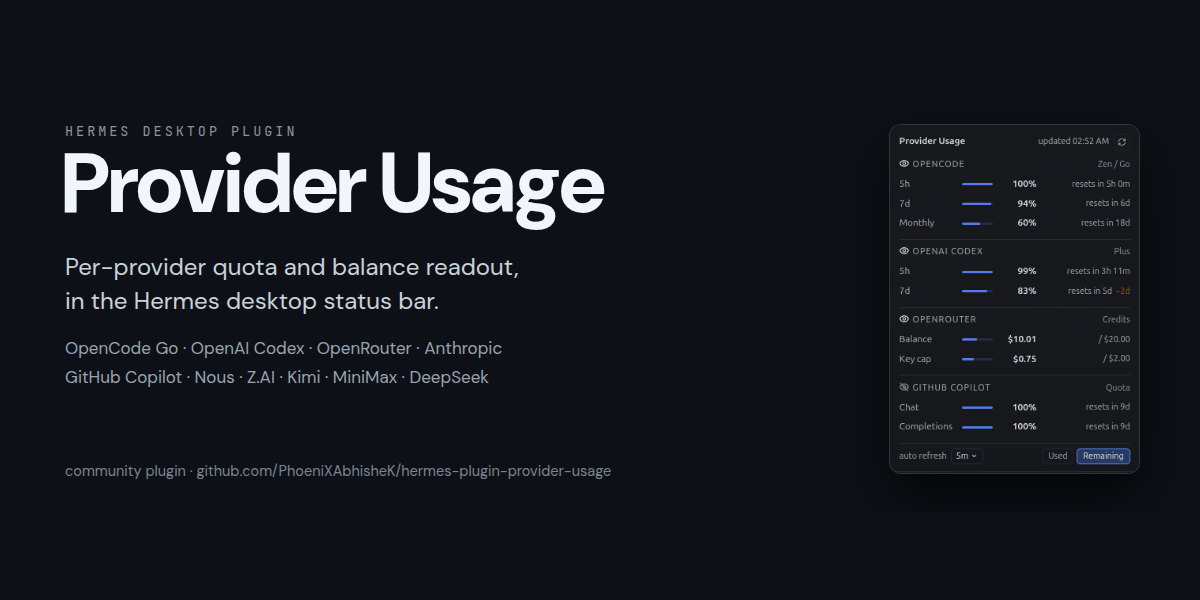
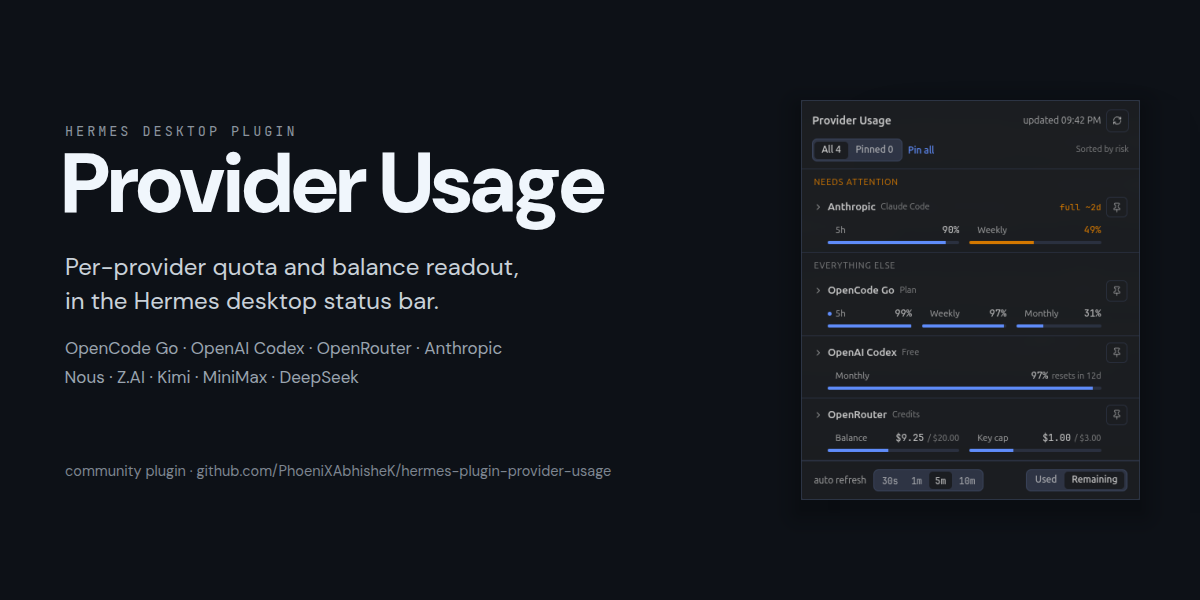
docs: version 0.4.1

diff --git a/dashboard/plugin_api.py b/dashboard/plugin_api.py
@@ -37,6 +37,7 @@ Endpoints hit (GET, machine credentials attached):
 - https://chatgpt.com/backend-api/wham/usage
 - https://openrouter.ai/api/v1/key and https://openrouter.ai/api/v1/credits
 - https://api.anthropic.com/api/oauth/usage (via Hermes, then DirectSDK, else the Claude Code token)
+- https://portal.nousresearch.com/api/oauth/account (via Hermes' Nous sign-in)
 - https://api.deepseek.com/user/balance
 - https://api.kimi.com/coding/v1/usages, https://api.moonshot.ai/v1/users/me/balance
   (then api.moonshot.cn)

diff --git a/README.md b/README.md
@@ -4,8 +4,7 @@
 
 Per-provider quota and balance readout in the Hermes desktop status bar:
 **OpenCode Go**, **OpenAI Codex**, **OpenRouter**, plus **Anthropic**,
-**GitHub Copilot**, **Nous**, **Z.AI**, **Kimi**, **MiniMax**, and
-**DeepSeek** when configured.
+**Nous**, **Z.AI**, **Kimi**, **MiniMax**, and **DeepSeek** when configured.
 
 Providers appear only when their credentials are usable; unconfigured
 providers are omitted from the panel entirely.
@@ -14,33 +13,43 @@ providers are omitted from the panel entirely.
 
 ![Provider Usage panel](media/panel.png)
 
+![Expanded row with the usage chart](media/chart.png)
+
 ![Status bar](media/status-bar.png)
 
 ![Near-limit alert](media/notification.png)
 
 ## What it shows
 
-- **Status bar**: the providers you pick with the eye toggles, e.g.
-  `opencode 6% · codex 2% · openrouter $0.32` (5h windows for quota providers,
-  key-cap figure for OpenRouter; flips with Used/Remaining). Until a toggle
-  is touched, only the first provider shows.
-- **Popover**: dense rows with every window, reset times, balance and key-cap
-  amounts, and a manual refresh button.
-- **Near-limit tint**: any window or the OpenRouter key cap at 80%+ used
+- **Status bar**: the providers you pin, e.g. `claude 49% · opencode 99% · codex 97%`.
+  Each shows its most used window unless you pick one with "Show in status bar".
+  With no pins, the bar follows the provider of the chat you are in. From four
+  pins the `%` sign drops, and from seven the pins turn into small meters. A
+  narrow window steps down the same way.
+- **Tooltip**: hover the bar for each bar provider's quota and the last update.
+- **Popover**: every provider, sorted by risk, with a **Needs attention** group
+  for anything near its limit. Each row shows its riskiest windows (with `+N more`
+  when there are others), balance and key-cap amounts, and a pin button. All /
+  Pinned filters, Pin all / Unpin all, and a manual refresh button sit at the top.
+- **Expanded row**: click a provider for one tab per window, a usage chart over
+  the whole window (now marker, projected path, alert line), and Burn, At reset
+  and Pace figures.
+- **Near-limit tint**: a window or the OpenRouter key cap at 80% or more used
   renders amber in the bar and in the popover.
-- **Native alerts**: one desktop notification per threshold crossing, deduped
-  per window cycle (keyed by the reset time) and once a day for the key cap.
-- **Burn-rate projections**: `~2d` appears next to a window when it would hit
-  100% before its own reset at the currently observed rate; caps show the
+- **Alerts**: one desktop notification when a window crosses its alert level,
+  set per window with "Alert at" (50, 70, 80, 90, 95 or off; 80 by default).
+  Deduped per window cycle (keyed by the reset time) and once a day for the key
+  cap. Hermes shows them only while the app is not focused.
+- **Burn-rate projections**: `full ~2d` appears next to a provider when a window
+  would hit 100% before its own reset at the current rate; caps show the
   projected exhaustion when inside 14 days.
 - **Rate limits**: a provider that answers `429` with `retry-after` is not
   called again until that time; the popover keeps the last reading and adds
   `last reading · retry after HH:MM` instead of hiding the provider. Holds
   are in memory, so a backend restart queries once more.
 - **Footer controls**: auto refresh picker (30s / 1m / 5m / 10m) and a
-  Used/Remaining toggle. Both persist across app restarts.
-- **Provider toggles**: an eye button on each provider header shows or hides
-  that provider in the status bar. Persists across app restarts.
+  Used/Remaining toggle. Pins, both footer choices and alert levels persist
+  across app restarts.
 
 ## Providers and what it reads
 
@@ -50,7 +59,7 @@ providers are omitted from the panel entirely.
 | OpenAI Codex | Hermes' Codex sign-in (account-usage helper), else the OAuth access token in `~/.codex/auth.json`; the `OPENAI_API_KEY` entry in that file is never used. A reading more than ten minutes old is refreshed with that token, at most once per five minutes | `https://chatgpt.com/backend-api/wham/usage` |
 | OpenRouter | `OPENROUTER_API_KEY` via the Hermes secret scope; a balance read needs a management key, so a normal key shows the key cap only | `https://openrouter.ai/api/v1/key`, `https://openrouter.ai/api/v1/credits` |
 | Anthropic | Hermes' Claude Code sign-in (account-usage helper), then Nous' [Claude Subscription DirectSDK] plugin when installed (Claude Code reports its own plan limits), else the Claude Code OAuth token in `~/.claude/.credentials.json`; a refused helper read keeps the last reading for up to six hours, marked stale, and once that reading is more than ten minutes old the direct token is tried at most once per five minutes | `https://api.anthropic.com/api/oauth/usage` |
-| GitHub Copilot | Hermes' Copilot token resolver | `https://api.github.com/copilot_internal/user` |
+| GitHub Copilot | Hermes' Copilot token resolver, on Hermes 0.22.5 or older only. Hermes 0.22.6 moved Copilot out of core into the `github-copilot` plugin, which does not report usage, so the card stays hidden there | `https://api.github.com/copilot_internal/user` |
 | Nous | Hermes' Nous Portal sign-in | `https://portal.nousresearch.com/api/oauth/account` (subscription windows, else the credit balance as money rows) |
 | Z.AI / GLM | `ZAI_API_KEY` or `GLM_API_KEY` | `https://api.z.ai/api/monitor/usage/quota/limit` |
 | Kimi | `KIMI_API_KEY` or `MOONSHOT_API_KEY` | `https://api.kimi.com/coding/v1/usages` (falls back to the Moonshot balance at `https://api.moonshot.ai/v1/users/me/balance`, then `https://api.moonshot.cn/v1/users/me/balance`) |
@@ -68,18 +77,20 @@ OpenCode Zen (the metered API) is not tracked yet; this card covers the Go subsc
   credential CLIs. Providers marked as resolved by Hermes use the app's own
   account-usage helpers (the same code path as Hermes' `/usage` surfaces,
   including Hermes' normal credential upkeep).
-- **No subprocesses.** Every provider call is an in-process `httpx` request;
-  nothing is shelled out, and no helper process ever sees a credential.
+- **No subprocesses of its own.** Every call this plugin makes is an
+  in-process `httpx` request. Hermes helpers it uses may run their own tools:
+  the Copilot token resolver on older Hermes can call `gh auth token`, and the
+  DirectSDK provider runs the Claude Code CLI behind a zero-inference gate.
 - **Sanitized error text.** A provider failure shown in the panel is short and
   single line. The only provider text used is a Z.AI `msg` or a MiniMax
   `status_msg`; it is capped at 120 characters, and the request's credential and
   any token-shaped string are redacted. Every other failure shows a shape such
   as `timeout` or `HTTP 500`; the raw detail goes to the backend log with the
   credential redacted.
-- **Client identity disclosure.** The GitHub Copilot check queries GitHub's
-  internal Copilot usage endpoint presenting the VS Code / Copilot client
-  identity (`Editor-Version`, `User-Agent`), the same identity the Copilot
-  editor plugin presents.
+- **Client identity disclosure.** On Hermes 0.22.5 or older, the GitHub Copilot
+  check queries GitHub's internal Copilot usage endpoint presenting the VS Code /
+  Copilot client identity (`Editor-Version`, `User-Agent`), the same identity the
+  Copilot editor plugin presents.
 - **All provider calls happen on your machine**, from the plugin's own backend
   half. The only network peers are the provider endpoints listed above.
 - **No telemetry, no analytics, no self-updater.**
@@ -139,7 +150,9 @@ __init__.py              Agent entry point (inert by design)
 dashboard/manifest.json  Dashboard manifest (mounts the backend router)
 dashboard/plugin_api.py  Backend: fetchers, cache, burn-rate history
 desktop/plugin.js        Desktop: status-bar item, popover, alerts
-tests/                   unittest suite: backend fetchers and package metadata
+schema/                  Payload contract (usage.schema.json)
+tests/                   unittest suite (backend) and node tests (desktop)
+tools/lint/              ESLint setup for the desktop half
 ```
 
 ## Development
@@ -148,8 +161,7 @@ tests/                   unittest suite: backend fetchers and package metadata
 - `python -m unittest discover -s tests -t .` runs the suite. It needs `httpx`
   and `fastapi`, so run it with the interpreter that serves the dashboard, or
   with a throwaway venv that has those two packages.
-- `node --test tests/desktop/plugin.test.mjs` runs the desktop helper tests with
-  no install.
+- `node --test tests/desktop/*.test.mjs` runs the desktop tests with no install.
 - The backend served payload is a single JSON object:
   `{ fetched_at, providers: [{ id, name, tag, code, status, windows | money }] }`. A
   provider row can also carry `plan`, `error`, or `stale` with `hold_until` and

diff --git a/CHANGELOG.md b/CHANGELOG.md
@@ -3,13 +3,32 @@
 Notable changes to the Provider Usage plugin. Versions follow the tags in this
 repository; the date is the release date.
 
-## Unreleased
+## 0.4.1 (2026-11-09)
+
+Panel:
+
+- [behaviour] Pins replace the eye toggles. Your saved eye choices carry over as
+  pins. With nothing pinned, the status bar follows the provider of the chat you
+  are in, and from four or seven pins the bar steps down to a compact form.
+- [behaviour] The bar shows each provider's most used window unless you choose
+  one with "Show in status bar". It used to show the 5h window.
+- The popover is sorted by risk, with a Needs attention group, All / Pinned
+  filters, Pin all / Unpin all, and `+N more` when a provider has more windows
+  than fit.
+- Clicking a provider opens one tab per window with a usage chart over the whole
+  window (now marker, projected path, alert line) and Burn, At reset and Pace.
+- Alerts can be set per window with "Alert at": 50, 70, 80, 90, 95 or off, 80 by
+  default.
+- [behaviour] Windows of a known length share the labels 5h, Weekly and Monthly
+  across providers, so OpenCode's 7d reads Weekly and Anthropic's current session
+  and week read 5h and Weekly.
+- When the panel is newer than the running backend, it says so ("Restart the
+  Hermes dashboard to finish updating.") instead of showing wrong values.
+
+Providers and backend:
 
 - Keep the last reading when the Hermes usage helper refuses, instead of
   dropping the provider for one refresh (#20).
-- [behaviour] MiniMax probes only `api.minimaxi.com` and `api.minimax.io`; the
-  two `www` variants are no longer contacted. Affected test:
-  `test_fetchers_only_reach_declared_hosts`.
 - [behaviour] Codex reads only the OAuth access token from `~/.codex/auth.json`.
   The `OPENAI_API_KEY` entry is never sent to the ChatGPT backend. Affected
   tests: `test_platform_key_is_never_sent`,
@@ -32,8 +51,9 @@ repository; the date is the release date.
   answering from a snapshot up to 4 minutes old.
 - [behaviour] A provider that answers with no rows is left out instead of showing a
   card with a fabricated 0%.
-- [behaviour] Codex windows are labelled by their own length: 5h, 7d or Monthly. A
-  monthly-only plan used to show as 5h.
+- [behaviour] Codex windows are labelled by their own length: 5h, Weekly or
+  Monthly. A monthly-only plan used to show as 5h. The tag shows the account's
+  plan instead of always Plus.
 - [behaviour] Balances in different currencies get distinct rows and separate
   history, so two DeepSeek balances no longer collide.
 - Computed reset times are rounded to the minute and compared within a tolerance,
@@ -43,8 +63,13 @@ repository; the date is the release date.
   once it is more than ten minutes old the backend tries the provider's own token
   at most once per five minutes. A failed or rate-limited attempt keeps the newest
   reading available, so a good reading is never replaced by an older one.
-- Kimi shows its monthly pools again: the coding usage endpoint now reports them under `usages`, which is read alongside the older `usage` block (#58).
-- Anthropic reads plan limits through Nous' Claude Subscription DirectSDK plugin when Hermes has no Anthropic sign-in, before the Claude Code token on disk (#22).
+- Kimi shows its monthly pools again: the coding usage endpoint now reports them
+  under `usages`, which is read alongside the older `usage` block (#58).
+- Anthropic reads plan limits through Nous' Claude Subscription DirectSDK plugin
+  when Hermes has no Anthropic sign-in, before the Claude Code token on disk (#22).
+- GitHub Copilot shows on Hermes 0.22.5 or older only. Hermes 0.22.6 moved Copilot
+  out of core into the `github-copilot` plugin, which does not report usage yet,
+  so the card stays hidden on newer Hermes.
 - Python 3.11 or newer is required, matching Hermes.
 
 ## 0.3.1 (2026-10-23)
